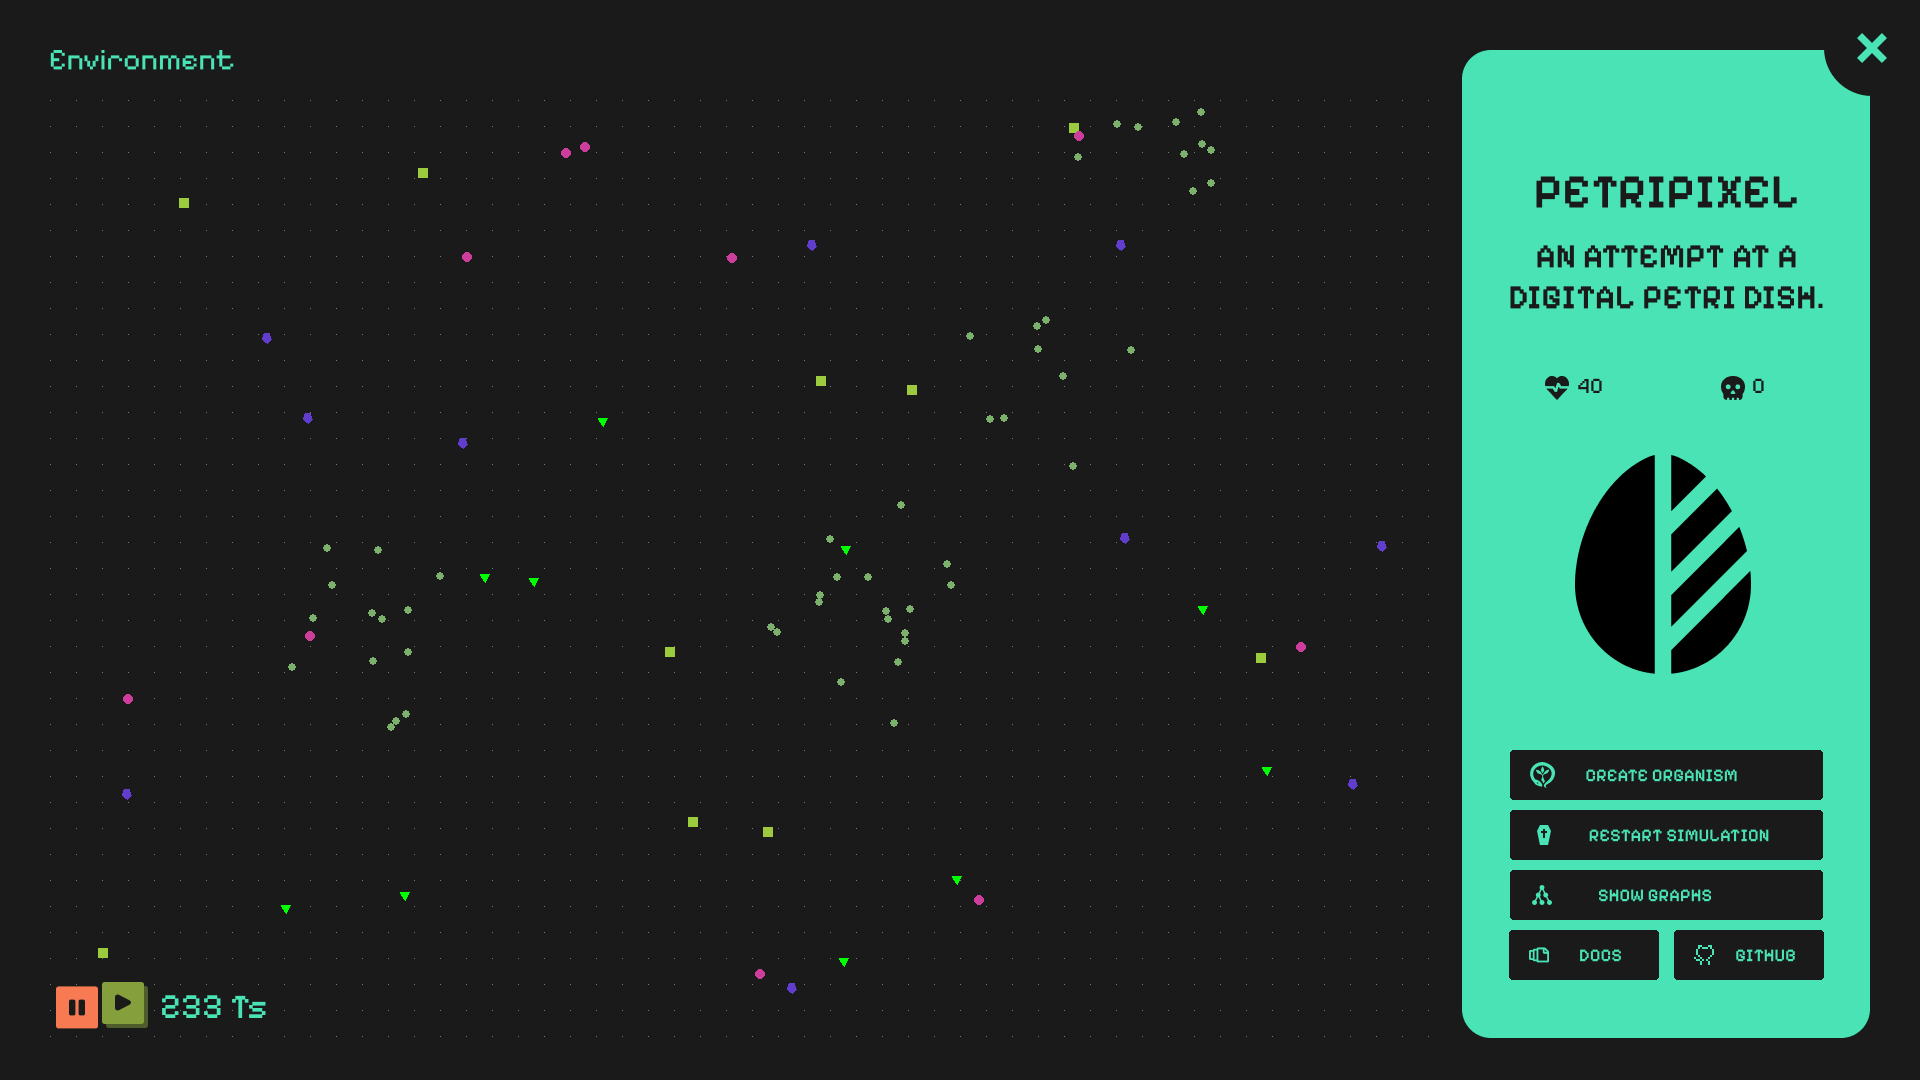
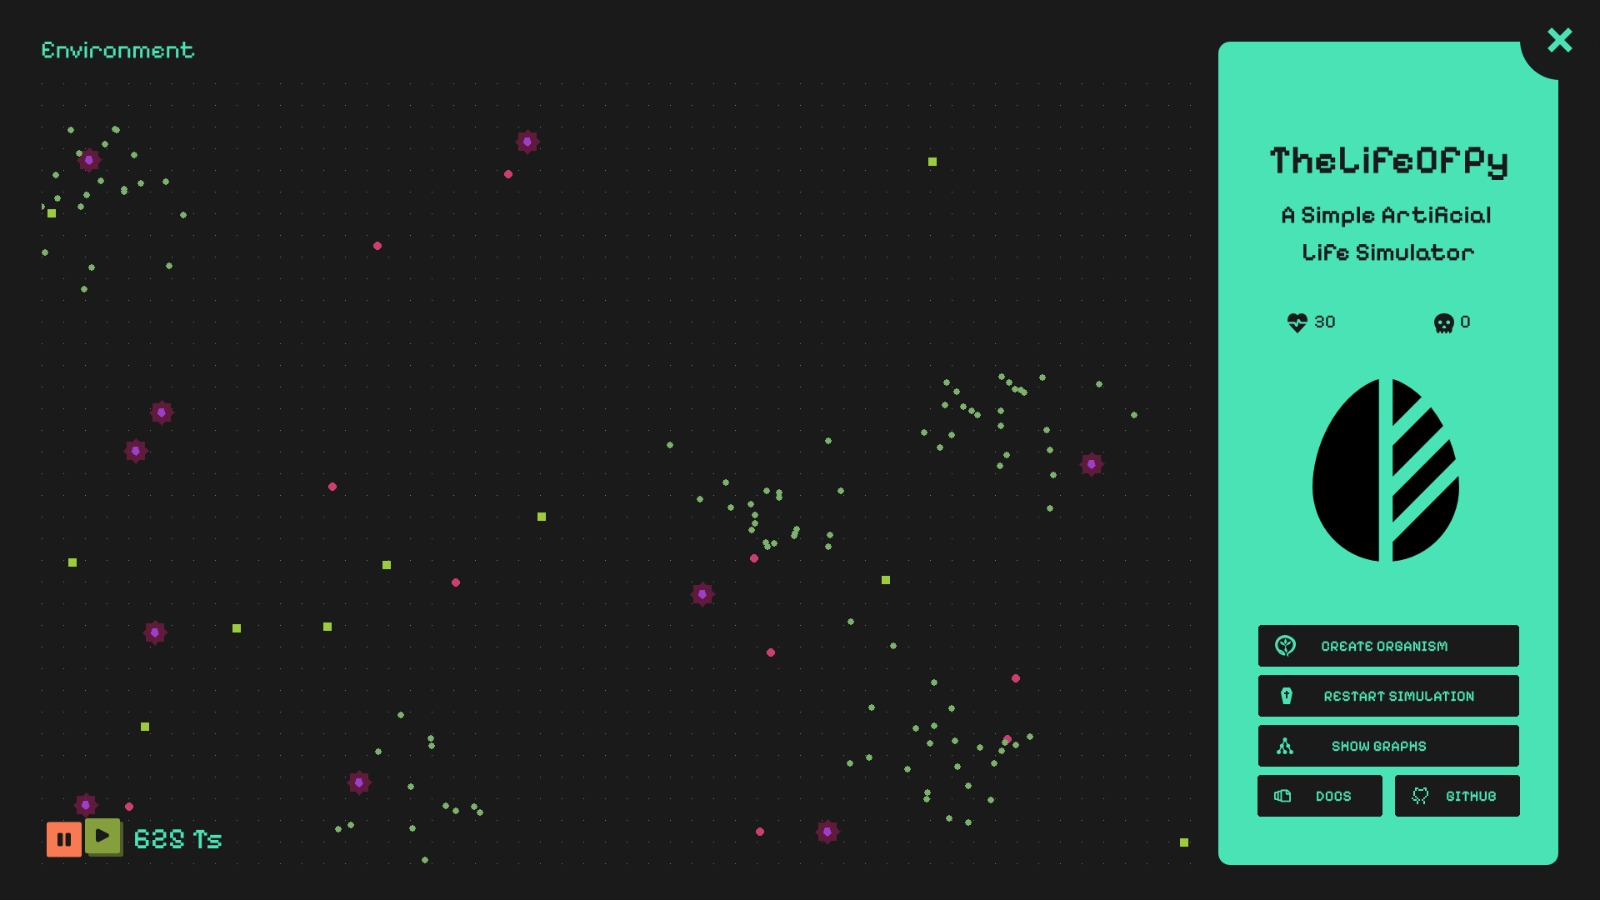
[FEAT] Change project name to `TheLifeOfPy`

diff --git a/src/components/home.py b/src/components/home.py
@@ -559,13 +559,13 @@ class SidebarComponent:
                 button = self.buttons["docs"]
                 button[SurfDesc.CURRENT_SURFACE] = button[SurfDesc.CLICKED_SURFACE]
             elif event.type == pygame.MOUSEBUTTONUP:
-                webbrowser.open("https://github.com/MZaFaRM/PetriPixel/wiki")
+                webbrowser.open("https://github.com/MZaFaRM/TheLifeOfPy/wiki")
         elif self.buttons["github"][SurfDesc.RECT].collidepoint((rel_x, rel_y)):
             if event.type == pygame.MOUSEBUTTONDOWN:
                 button = self.buttons["github"]
                 button[SurfDesc.CURRENT_SURFACE] = button[SurfDesc.CLICKED_SURFACE]
             elif event.type == pygame.MOUSEBUTTONUP:
-                webbrowser.open("https://github.com/MZaFaRM/PetriPixel")
+                webbrowser.open("https://github.com/MZaFaRM/TheLifeOfPy")
 
     def handle_profile_sidebar_event(self, event, rel_x, rel_y):
         back_button = self.sidebar_screens[self.PROFILE]["back_button"]

diff --git a/src/handlers/ui.py b/src/handlers/ui.py
@@ -9,7 +9,7 @@ class UIHandler:
     def __init__(self):
         self.surface = pygame.display.set_mode((0, 0), pygame.FULLSCREEN)
         self.surface.fill((26, 26, 26))
-        pygame.display.set_caption("PetriPixel")
+        pygame.display.set_caption("TheLifeOfPy")
 
         self.screen_states = {
             "current_screen": Pages.HOME,

diff --git a/readme.md b/readme.md
@@ -1,10 +1,10 @@
-# PetriPixel
+# TheLifeOfPy
 
 ![Home Screen](./docs/images/home-beautified.png)
 
 Inspired by the works of [@PrimerBlobs](https://www.youtube.com/@PrimerBlobs), [@davidrandallmiller](https://www.youtube.com/@davidrandallmiller), and [@3Blue1Brown](https://www.youtube.com/@3Blue1Brown), I’ve wanted to build something like this for a long time My BTech final project felt like the perfect excuse to finally do it.
 
-So, here’s **PetriPixel**—my attempt at creating a digital petri dish where you can create organisms by customizing their **phenotypic and genotypic traits** (like neural networks, size, color, and defense mechanisms) and release them into an environment to see how they interact.
+So, here’s **TheLifeOfPy**—my attempt at creating a simple artificial life simulation software where you can create organisms by customizing their **phenotypic and genotypic traits** (like neural networks, size, color, and defense mechanisms) and release them into an environment to see how they interact.
 
 P.S. If you liked the project, a ⭐ would mean a lot.
 
@@ -12,7 +12,7 @@ P.S. If you liked the project, a ⭐ would mean a lot.
 
 ![Laboratory](./docs/images/lab-beautified.png)
 
--   **Create Various Creatures** 
+-   **Create Various Creatures**
 
     -   Define their physical traits—size, shape, and defensive features.
     -   Set their behavioral traits—how they respond to food, threats, and each other.
@@ -26,17 +26,17 @@ P.S. If you liked the project, a ⭐ would mean a lot.
 
 ## Requirements
 
-- Display: 1920×1080 resolution
-- Python: 3.x
-- Operating System: Tested on Windows and Linux
-- Dependencies (if running from source): See requirements.txt (also requires Visual C++ Build Tools on Windows)
-- RAM: Minimum 4 GB (8 GB recommended)
+-   Display: 1920×1080 resolution
+-   Python: 3.x
+-   Operating System: Tested on Windows and Linux
+-   Dependencies (if running from source): See requirements.txt (also requires Visual C++ Build Tools on Windows)
+-   RAM: Minimum 4 GB (8 GB recommended)
 
 ## Installation & Setup
 
 ### 📥 **Get the Latest Release (Recommended)**
 
-For the easiest setup, download the latest standalone runner from the **[Releases](https://github.com/MZaFaRM/PetriPixel/releases/)** section. No additional installation is required—just run the executable!
+For the easiest setup, download the latest standalone runner from the **[Releases](https://github.com/MZaFaRM/TheLifeOfPy/releases/)** section. No additional installation is required—just run the executable!
 
 ### 🛠 **Run from Source**
 
@@ -51,8 +51,8 @@ If you want to run the project from source, follow these steps:
 #### **2. Clone the Repository**
 
 ```bash
-git clone https://github.com/MZaFaRM/PetriPixel.git
-cd PetriPixel
+git clone https://github.com/MZaFaRM/TheLifeOfPy.git
+cd TheLifeOfPy
 ```
 
 #### **3. Create & Activate a Virtual Environment (Optional but Recommended)**
@@ -85,7 +85,7 @@ python main.py
 
 ## Guides & Wiki
 
-Check out the project [wiki](https://github.com/MZaFaRM/PetriPixel/wiki).
+Check out the project [wiki](https://github.com/MZaFaRM/TheLifeOfPy/wiki).
 
 ## Video
 
@@ -97,14 +97,16 @@ Check out the project [wiki](https://github.com/MZaFaRM/PetriPixel/wiki).
 
 ## References
 
->   **"Simulating Natural Selection"** – _Primer Blobs_ ([YouTube](https://youtu.be/0ZGbIKd0XrM))  
+> **"Simulating Natural Selection"** – _Primer Blobs_ ([YouTube](https://youtu.be/0ZGbIKd0XrM))
 
 Gave me inspiration for the project itself.
->   **"I programmed some creatures. They Evolved."** – _David Randall Miller_ ([YouTube](https://youtu.be/N3tRFayqVtk))  
+
+> **"I programmed some creatures. They Evolved."** – _David Randall Miller_ ([YouTube](https://youtu.be/N3tRFayqVtk))
 
 Gave me ideas on how to implement the neural network aspects.
->   **"Neural Networks"** – _3Blue1Brown_ ([YouTube](https://youtube.com/playlist?list=PLZHQObOWTQDNU6R1_67000Dx_ZCJB-3pi&si=n2Z-eqO5R8f-HR5O))
-    
+
+> **"Neural Networks"** – _3Blue1Brown_ ([YouTube](https://youtube.com/playlist?list=PLZHQObOWTQDNU6R1_67000Dx_ZCJB-3pi&si=n2Z-eqO5R8f-HR5O))
+
 Taught me a good chunk about building Neural Networks.
 
 ## License
